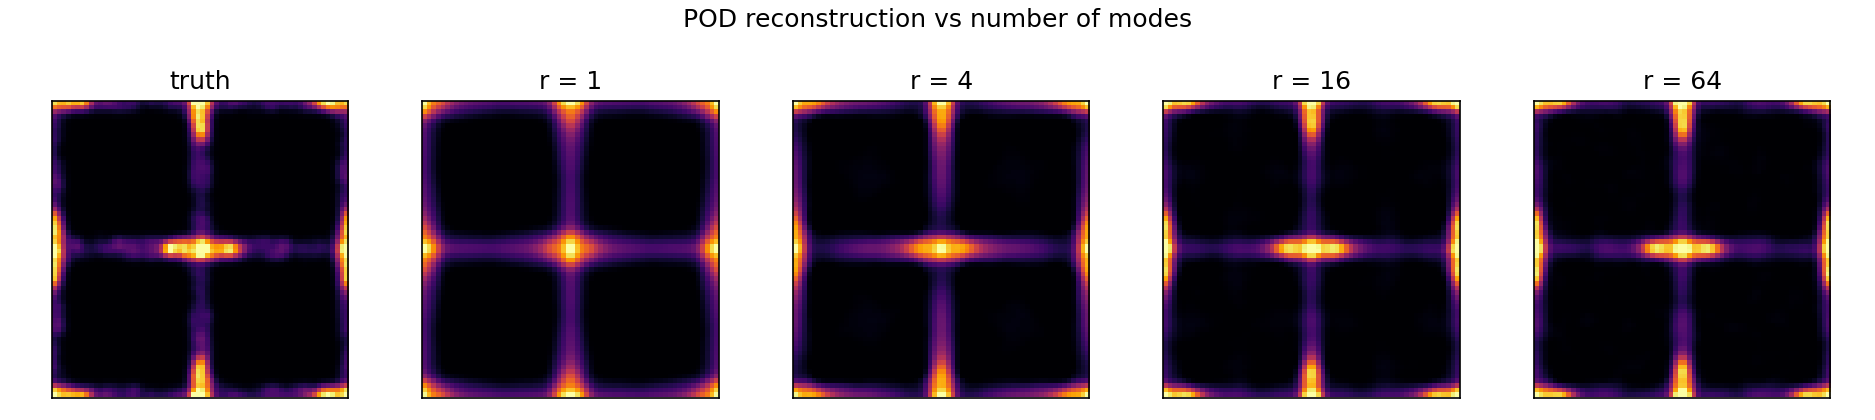
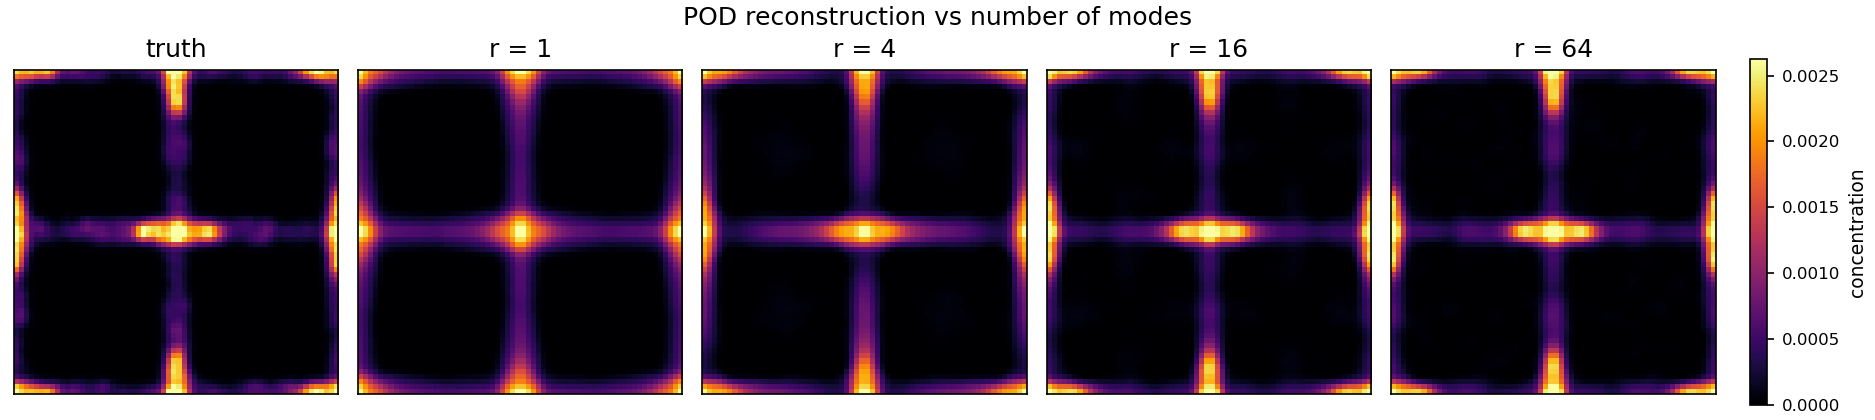
Add colourbars and layout polish to figures and GIFs

diff --git a/src/ropf/viz.py b/src/ropf/viz.py
@@ -50,7 +50,8 @@ def plot_stokes_comparison(
 
     nrows, ncols = len(unique_st), len(t_idx)
     fig, axes = plt.subplots(
-        nrows, ncols, figsize=(2.6 * ncols, 2.6 * nrows), squeeze=False
+        nrows, ncols, figsize=(2.8 * ncols, 2.6 * nrows), squeeze=False,
+        constrained_layout=True,
     )
 
     for r, St in enumerate(unique_st):
@@ -60,7 +61,7 @@ def plot_stokes_comparison(
         vmax = np.percentile(row_fields, 99.5) or row_fields.max()
         for c, ti in enumerate(t_idx):
             ax = axes[r][c]
-            ax.imshow(
+            im = ax.imshow(
                 conc[case, ti, 0],
                 origin="lower",
                 extent=_field_extent(L),
@@ -74,13 +75,17 @@ def plot_stokes_comparison(
                 ax.set_title(f"t = {times[ti]:.1f}", fontsize=11)
             if c == 0:
                 ax.set_ylabel(f"St = {St:g}", fontsize=11)
+        # One colourbar per row: the colour scale is normalised per Stokes row,
+        # so each row needs its own key (dark = empty, bright = clustered).
+        cbar = fig.colorbar(im, ax=list(axes[r]), fraction=0.046, pad=0.02)
+        cbar.set_label("concentration", fontsize=9)
+        cbar.ax.tick_params(labelsize=8)
 
     fig.suptitle(
         "Particle concentration fields vs Stokes number (seed "
         f"{seed})",
         fontsize=13,
     )
-    fig.tight_layout(rect=(0, 0, 1, 0.97))
     return fig
 
 
@@ -138,11 +143,12 @@ def plot_pod_reconstruction_panel(
     vmax = np.percentile(truth, 99.5) or truth.max()
 
     ncols = len(ranks) + 1
-    fig, axes = plt.subplots(1, ncols, figsize=(2.5 * ncols, 2.8), squeeze=False)
+    fig, axes = plt.subplots(1, ncols, figsize=(2.5 * ncols, 2.8), squeeze=False,
+                             constrained_layout=True)
     axes = axes[0]
 
-    axes[0].imshow(truth, origin="lower", extent=[0, L, 0, L], cmap=cmap,
-                   vmin=0, vmax=vmax)
+    im = axes[0].imshow(truth, origin="lower", extent=[0, L, 0, L], cmap=cmap,
+                        vmin=0, vmax=vmax)
     axes[0].set_title("truth")
     for ax, r in zip(axes[1:], ranks):
         recon = pod.reconstruct(true_field_flat, r).reshape(ny, nx)
@@ -153,8 +159,10 @@ def plot_pod_reconstruction_panel(
         ax.set_xticks([])
         ax.set_yticks([])
 
+    cbar = fig.colorbar(im, ax=list(axes), fraction=0.046, pad=0.02)
+    cbar.set_label("concentration", fontsize=9)
+    cbar.ax.tick_params(labelsize=8)
     fig.suptitle("POD reconstruction vs number of modes", fontsize=12)
-    fig.tight_layout(rect=(0, 0, 1, 0.92))
     return fig
 
 
@@ -215,6 +223,9 @@ def animate_case(
     ax_c.set_title("concentration")
     ax_c.set_xticks([])
     ax_c.set_yticks([])
+    cbar = fig.colorbar(im, ax=ax_c, fraction=0.046, pad=0.04)
+    cbar.set_label("concentration", fontsize=9)
+    cbar.ax.tick_params(labelsize=8)
 
     suptitle = fig.suptitle("", fontsize=12)
 

diff --git a/scripts/train_autoencoder.py b/scripts/train_autoencoder.py
@@ -106,18 +106,23 @@ def main():
     truth = data.test_flat.numpy()[:, 0]
     var = truth.reshape(truth.shape[0], -1).var(axis=1)
     idx = np.argsort(var)[-4:][::-1]            # 4 most-structured fields
-    fig, axes = plt.subplots(2, len(idx), figsize=(2.6 * len(idx), 5.2))
+    # Shared physical-unit colour scale across every panel, so a single
+    # colourbar is meaningful (truth and reconstruction are directly comparable).
+    vmax = float(np.percentile(truth[idx], 99.5) or truth[idx].max()) * data.scale
+    fig, axes = plt.subplots(2, len(idx), figsize=(2.6 * len(idx), 5.4),
+                             constrained_layout=True)
     for col, i in enumerate(idx):
-        vmax = np.percentile(truth[i], 99.5) or truth[i].max()
         axes[0, col].imshow(truth[i] * data.scale, origin="lower", cmap="inferno",
-                            vmin=0, vmax=vmax * data.scale)
-        axes[1, col].imshow(np.clip(recon[i], 0, None) * data.scale, origin="lower",
-                            cmap="inferno", vmin=0, vmax=vmax * data.scale)
+                            vmin=0, vmax=vmax)
+        im = axes[1, col].imshow(np.clip(recon[i], 0, None) * data.scale,
+                                 origin="lower", cmap="inferno", vmin=0, vmax=vmax)
         for r in (0, 1):
             axes[r, col].set_xticks([]); axes[r, col].set_yticks([])
     axes[0, 0].set_ylabel("truth"); axes[1, 0].set_ylabel("reconstruction")
+    cbar = fig.colorbar(im, ax=axes.ravel().tolist(), fraction=0.046, pad=0.02)
+    cbar.set_label("concentration", fontsize=9)
+    cbar.ax.tick_params(labelsize=8)
     fig.suptitle(f"Autoencoder reconstruction (held-out {data.label})")
-    fig.tight_layout(rect=(0, 0, 1, 0.96))
     f = outdir / "ae_reconstruction_panel.png"; fig.savefig(f, dpi=args.dpi); plt.close(fig)
     print(f"  wrote {f}")
 

diff --git a/scripts/compare_roms.py b/scripts/compare_roms.py
@@ -76,13 +76,13 @@ def main():
                label=f"autoencoder, latent {latent} (nonlinear)")
     ax.plot([latent], [ae_rmse], "s", color="#d62728", ms=9, zorder=5)
 
-    # Mark the POD rank that matches the autoencoder, if any.
+    # Mark the POD rank that matches the autoencoder, if any. The dotted line
+    # locates it; a plain label next to it explains what it means (no arrow).
     if match is not None:
         ax.axvline(match, color="grey", ls=":", lw=1)
-        ax.annotate(f"POD needs ~{match} modes to\nmatch the {latent}-dim AE",
-                    xy=(match, ae_rmse), xytext=(match * 1.6, ae_rmse * 1.05),
-                    fontsize=9, color="dimgrey",
-                    arrowprops=dict(arrowstyle="->", color="grey", lw=1))
+        ax.text(match + 3, ae_rmse * 1.05,
+                f"POD needs ~{match} modes\nto match the {latent}-dim AE",
+                fontsize=9, color="dimgrey", va="bottom", ha="left")
 
     verdict = ("Nonlinear ROM wins at equal latent size"
                if wins else "Linear POD is not beaten at equal latent size")

diff --git a/scripts/train_forecaster.py b/scripts/train_forecaster.py
@@ -205,6 +205,9 @@ def _make_forecast_gif(path, truth, pred, times, stokes, fps=20):
     axt.set_title("truth"); axp.set_title("latent forecast")
     for ax in (axt, axp):
         ax.set_xticks([]); ax.set_yticks([])
+    cbar = fig.colorbar(im_p, ax=(axt, axp), fraction=0.046, pad=0.02)
+    cbar.set_label("concentration", fontsize=9)
+    cbar.ax.tick_params(labelsize=8)
     sup = fig.suptitle("")
 
     def update(k):
